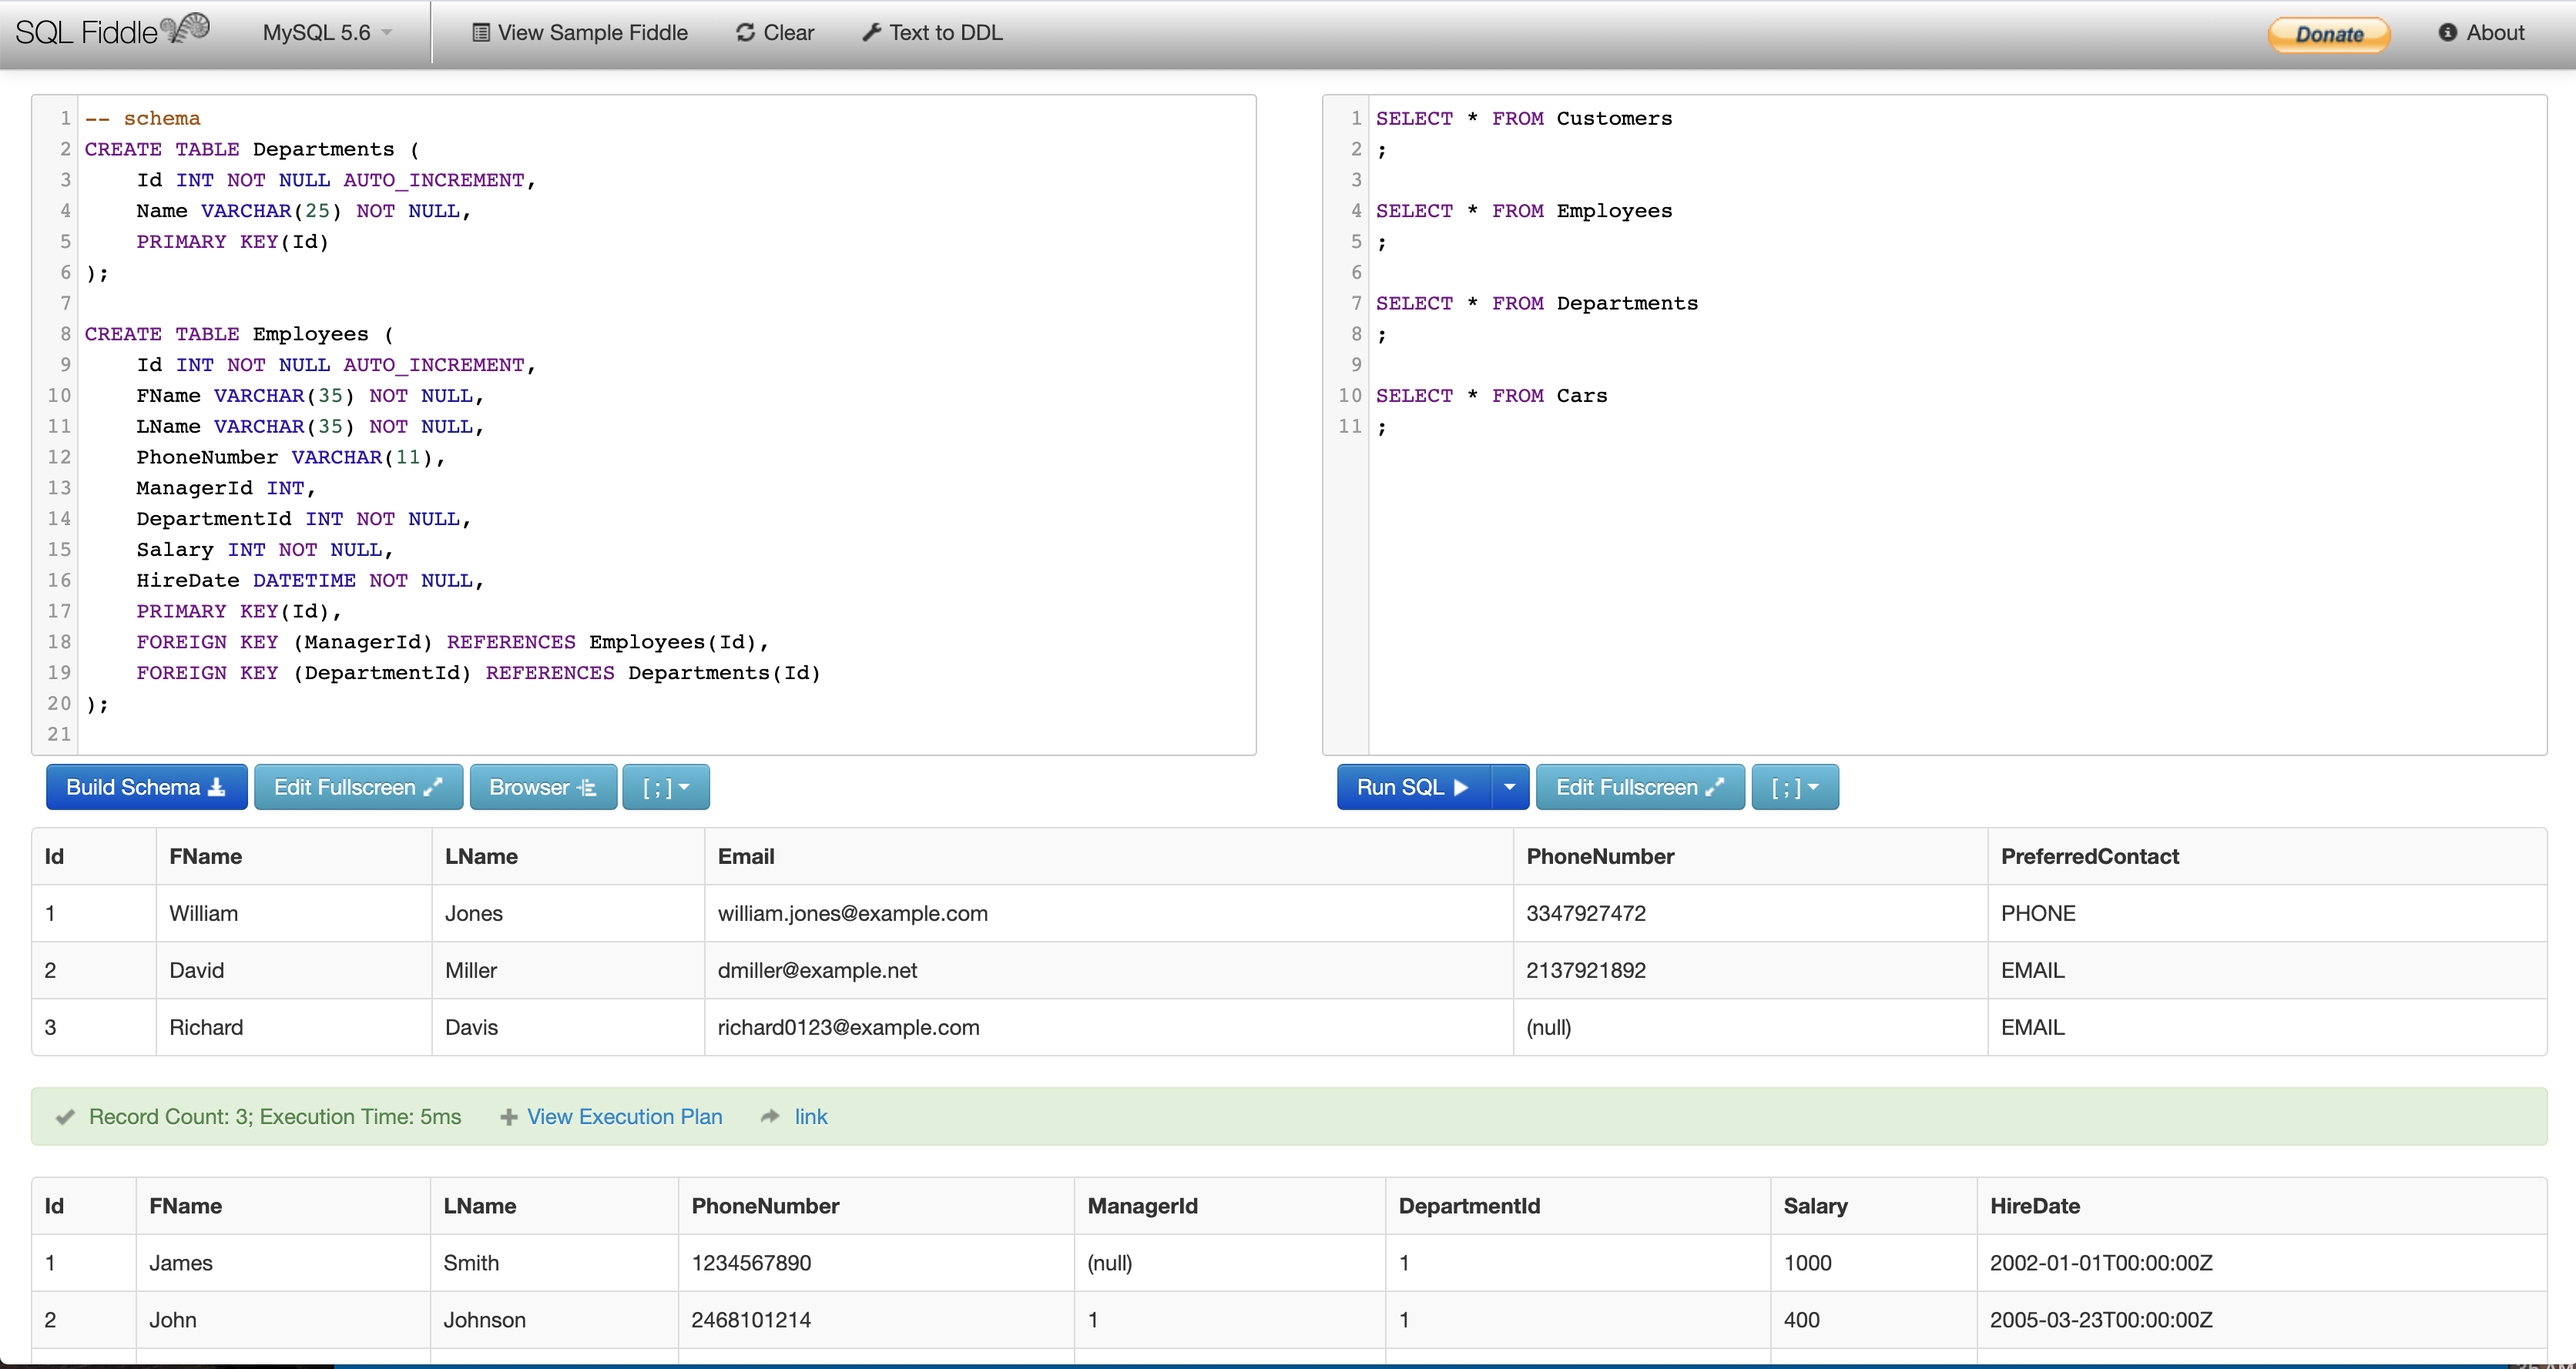
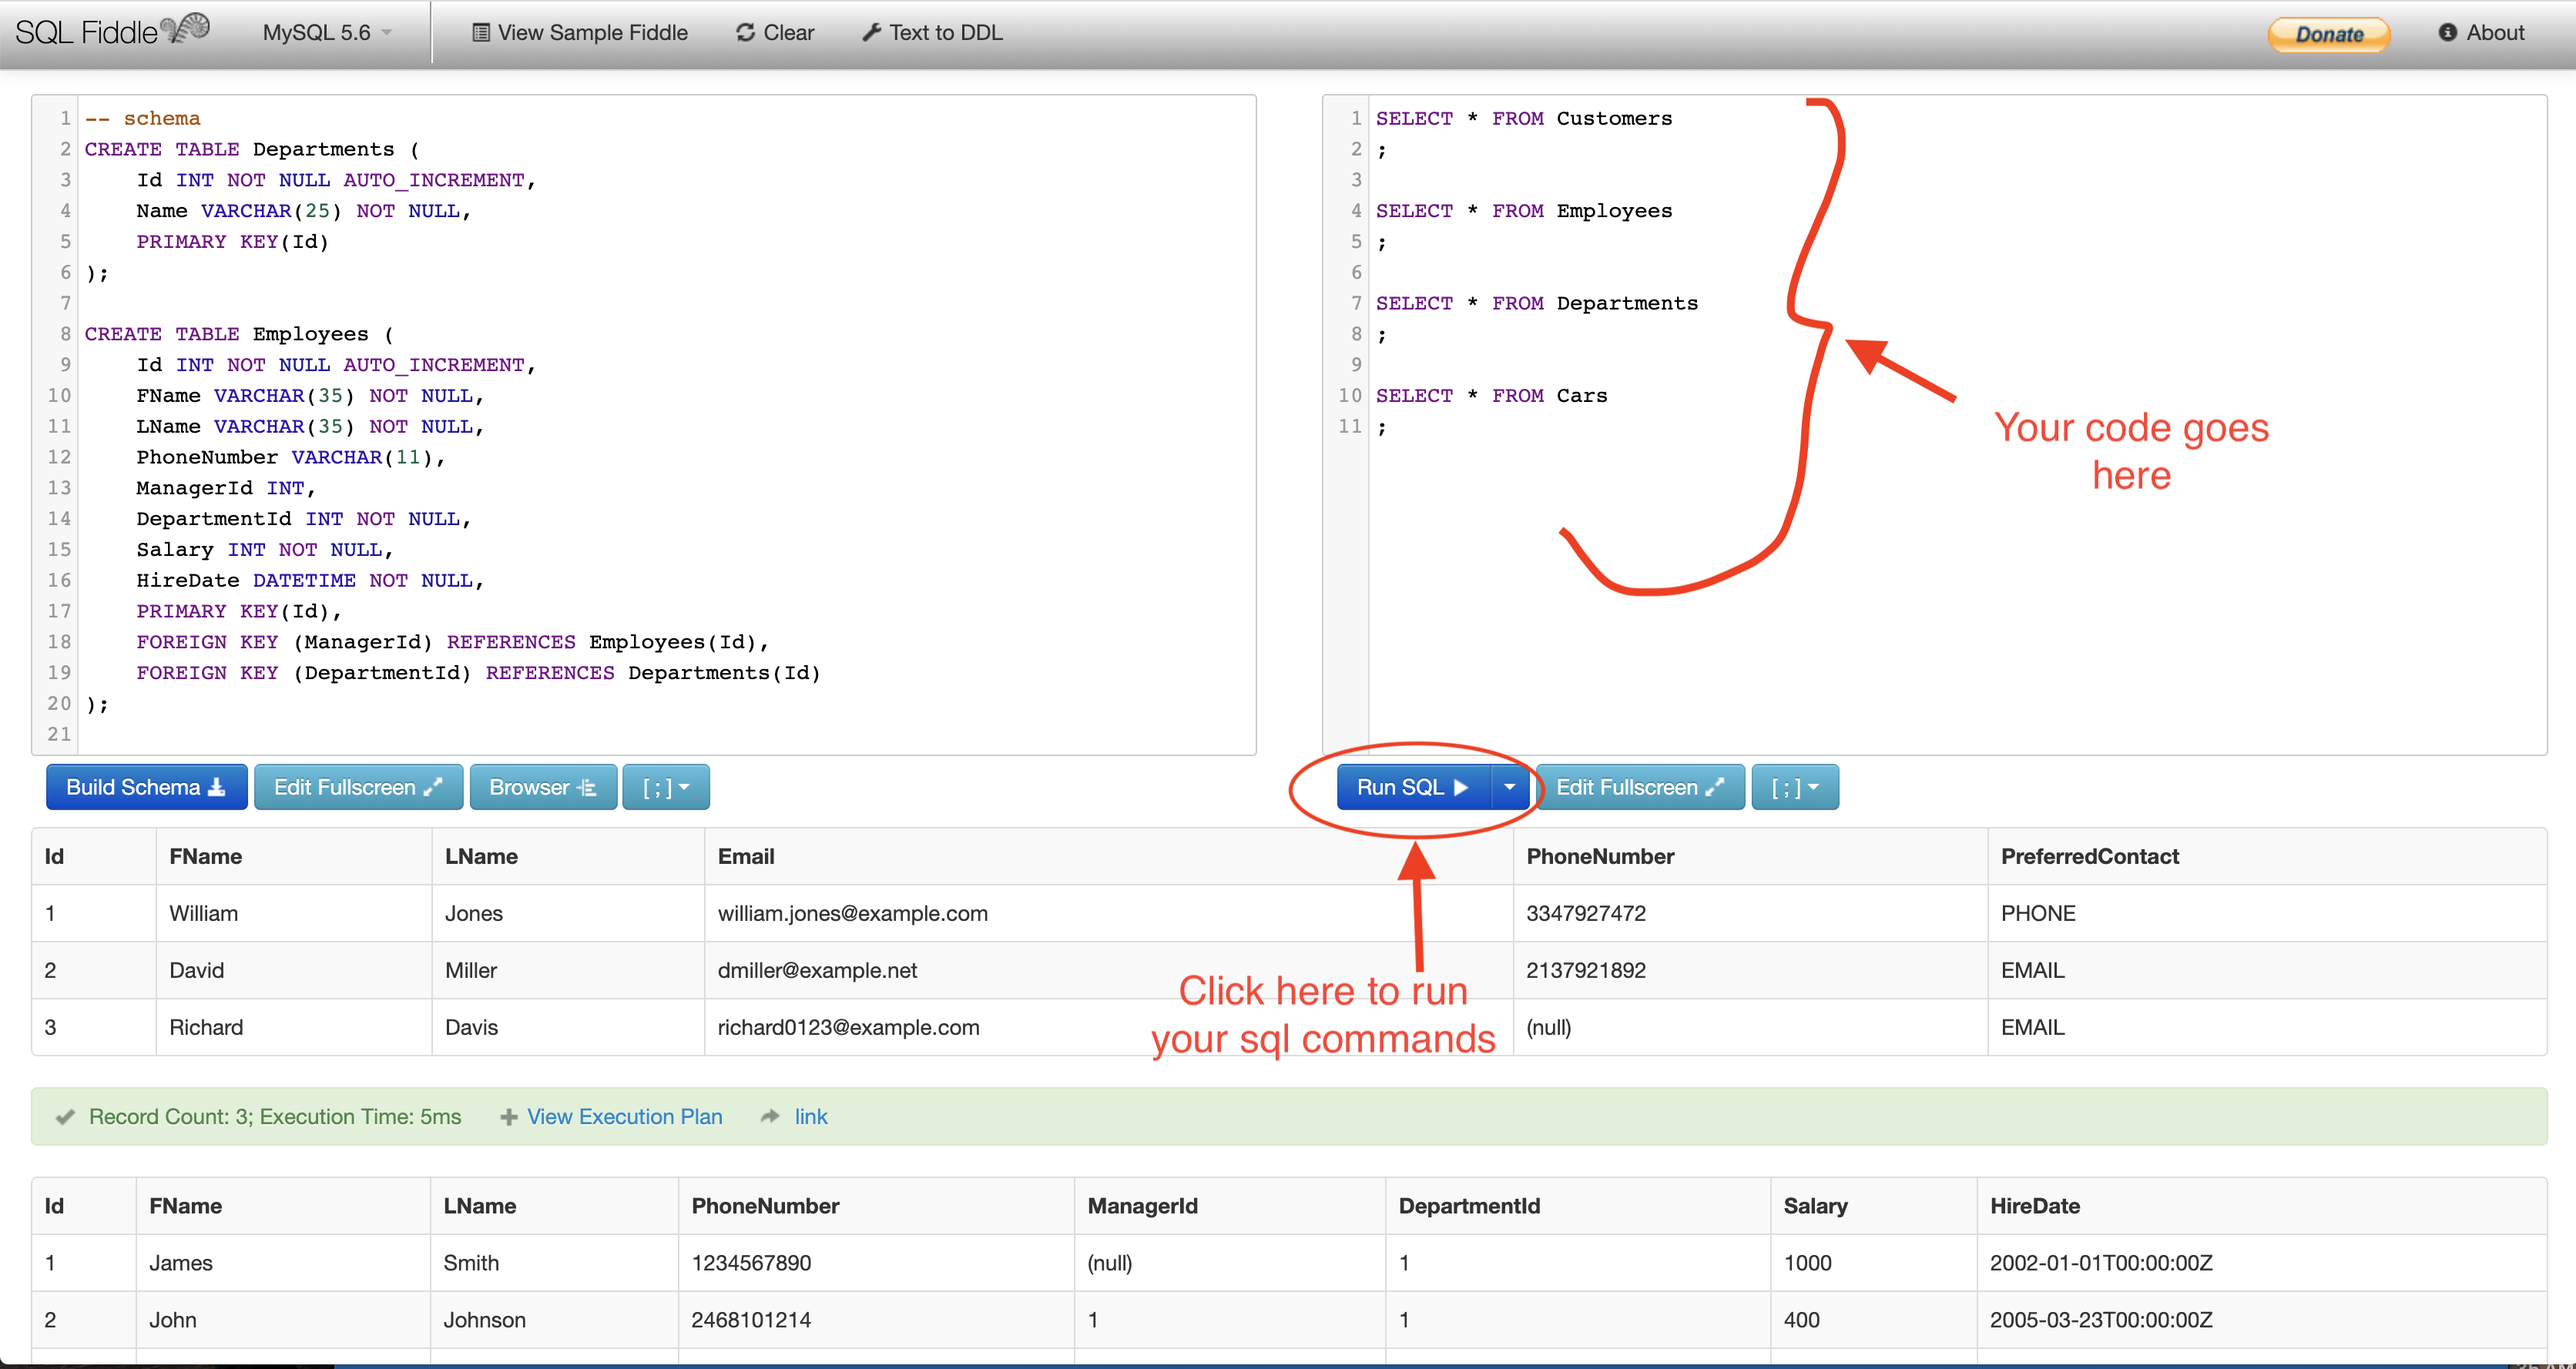
adding img and refining storyline

diff --git a/P04-SQL-Aggregate-Functions/content.md b/P04-SQL-Aggregate-Functions/content.md
@@ -9,7 +9,7 @@ An aggregate function performs a calculation one or more values and returns a si
 
 Here are a few useful aggregate functions SQL provides:
 
-### MAX
+# MAX
 Returns the maximum value in a set.
 The max() function accepts a valid expression or a column name as an argument.
 
@@ -18,7 +18,7 @@ The max() function accepts a valid expression or a column name as an argument.
 > MAX(expression) or MAX(column_name)
 >
 
-### MIN
+# MIN
 Returns the minimum value in a set.
 Just like the max(), the min() function accepts a valid expression or a column name as an argument.
 
@@ -27,7 +27,7 @@ Just like the max(), the min() function accepts a valid expression or a column n
 > MIN(expression) or MIN(column_name)
 >
 
-### SUM
+# SUM
 Calculates the sum of the specified column values. It excludes adding any null value inside the column.
 
 > [info]
@@ -35,7 +35,7 @@ Calculates the sum of the specified column values. It excludes adding any null v
 > SUM(column_name)
 > SUM(DISTINCT column_name) - returns only the sum of unique values in the column.
 
-### AVG
+# AVG
 Calculates the average of the specified column values.
 
 > [info]
@@ -43,8 +43,8 @@ Calculates the average of the specified column values.
 > AVG(column_name)
 >
 
-### COUNT
-It returns the number of items for a given set. Counts the number of specified column values. 
+# COUNT
+It returns the number of items for a given set. Counts the number of specified column values.
 
 > [info]
 > Usage:
@@ -55,9 +55,10 @@ It returns the number of items for a given set. Counts the number of specified c
 
 ![count all employees](assets/count_all.png "count all employees")
 
+# Example
 > [action]
 >
-> Run this command in the sql-fiddle. 
+> Run this command in the sql-fiddle.
 > This command selects the employee with the maximum salary.
 >
 ```sql
@@ -78,11 +79,10 @@ Here are some challenges you can try on your own on the SQL fiddle
 >
 
 
-## Resources
+# Resources
 
 https://mystery.knightlab.com/walkthrough.html
 
 https://www.sqlservertutorial.net/sql-server-aggregate-functions/
 
 https://www.sqlservertutorial.net/sql-server-aggregate-functions/sql-server-count/
-

diff --git a/P02-SQL-Keywords/content.md b/P02-SQL-Keywords/content.md
@@ -23,6 +23,8 @@ Example:
 > The code below grabs all the rows from the Customers table.
 >
 
+<!--  -->
+
 > [action]
 >
 > Run this command in the sql-fiddle.
@@ -30,6 +32,7 @@ Example:
 ```sql
 SELECT * FROM Customers
 ```
+> The output of your code should look like the table below.
 >
 
 ![Select all customers](assets/all_customers.png "Select all customers")
@@ -38,30 +41,35 @@ SELECT * FROM Customers
 >The SELECT block specifies which columns you want to output. Its format is ```SELECT <column>, <column>, ....``` Each column must be separated by a comma.
 >
 
+<!--  -->
+
 Example:
 
 > [action]
-> ```sql
-> SELECT FName FROM Customers
-> ```
+>
+```sql
+SELECT FName FROM Customers
+```
 >
 
 ![Select all customers fname](assets/customers_fname.png "Select all customers fname")
 
 ## FROM
 
-FROM allows us to specify which table(s) we care about; to select multiple tables, list the table names and use commas to separate them. (But until you learn the JOIN keyword, you may be surprised at what happens. That will come later.)
+FROM allows us to specify which table(s) we care about; to select multiple tables, list the table names and use commas to separate them.
 
 To limit the number of rows you get from the result, you can add the keyword **LIMIT**
-Run this, and see what happens.
+Run the code below, and see what happens.
 
-```sql
+``` sql
 SELECT * FROM Customers LIMIT 2;
 ```
 
 ![Select 2 customers](assets/select_2_customers.png "Select 2 customers")
 
-You should only see 2 rows from the Customers table.
+> [info]
+> You should only see 2 rows from the Customers table since the assigned limit is 2.
+>
 
 ## WHERE
 
@@ -94,7 +102,7 @@ Here are some challenges you can try on your own on the SQL fiddle
 >
 
 
-## Resources
+# Resources
 https://www.edureka.co/blog/top-10-reasons-to-learn-sql/
 
 https://mystery.knightlab.com/walkthrough.html

diff --git a/P01-Getting-Started/content.md b/P01-Getting-Started/content.md
@@ -5,11 +5,18 @@ slug: getting-started
 
 ## Overview
 
+![SQL Fiddle Platform](assets/autoshop.jpg "SQL Fiddle Platform")
+
+You are an owner of an **Autoshop** and you would like to know some information about your Customers, Employees, Departments as well as the Cars you sell. All of these information is located in a database consisting of 4 tables : **Customers**, **Employees**, **Departments**, and **Cars**. In order to answer the questions you have, we are going to use SQL commands and query your database. 😄🗂
+
+
+
+# What is SQL? 🤔
 Structured Query language (SQL) is pronounced as “S-Q-L” or sometimes as “See-Quel”  which is the standard language for dealing with Relational Databases. SQL is effectively used to insert, search, update, delete and modify database records. It doesn’t mean SQL cannot do things beyond that. In fact, it can do a lot more other things as well.
 
 You will be working on an **Autoshop database**. This database consists of 4 tables: **Customers**, **Employees**, **Departments**, and **Cars**.
 
-You will be using **SQL Fiddle** platform to use sql commands and make changes on these tables. 
+You will be using **SQL Fiddle** platform to use sql commands and return the results you want.
 
 ![SQL Fiddle Platform](assets/sql-fiddle.png "SQL Fiddle Platform")
 
@@ -19,7 +26,7 @@ You will be using **SQL Fiddle** platform to use sql commands and make changes o
 # Why Is This Important
 
 SQL is one of the most sought-after skills by hiring employers.
-
+Learning how to query data will help you in understanding database architecture.
 
 # Prerequisites:
 

diff --git a/P05-Group-By-Keyword/content.md b/P05-Group-By-Keyword/content.md
@@ -5,13 +5,13 @@ slug: group-by-keyword
 
 ## Grouping data within a table
 
-So let's say we want to know how many employees have similar last names. This is where the **Group By** keyword comes in. 
+So let's say we want to know how many employees have similar last names. This is where the **Group By** keyword comes in.
 
-It allows us to split up the dataset and apply aggregate functions within each group, resulting in one row per group. 
+It allows us to split up the dataset and apply aggregate functions within each group, resulting in one row per group.
 
 > [action]
 >
-> Run this command in the sql-fiddle. 
+> Run this command in the sql-fiddle.
 > This command selects last names of employees and counts. Then groups them by their last name. If you run the command, you'll see distnict last names in one column and their count on another column.
 >
 ```sql
@@ -30,5 +30,5 @@ Here are some challenges you can try on your own on the SQL fiddle
 > - Select Models of Cars with their count and group them by their Status.
 >
 
-## Resources
+# Resources
 https://selectstarsql.com/longtail.html

diff --git a/P03-Distinct-Keyword/content.md b/P03-Distinct-Keyword/content.md
@@ -29,7 +29,7 @@ SELECT DISTINCT LName FROM Employees
 > - Select all unique car models from the Cars table
 
 
-## Resources
+# Resources
 https://www.edureka.co/blog/top-10-reasons-to-learn-sql/
 
 https://mystery.knightlab.com/walkthrough.html
